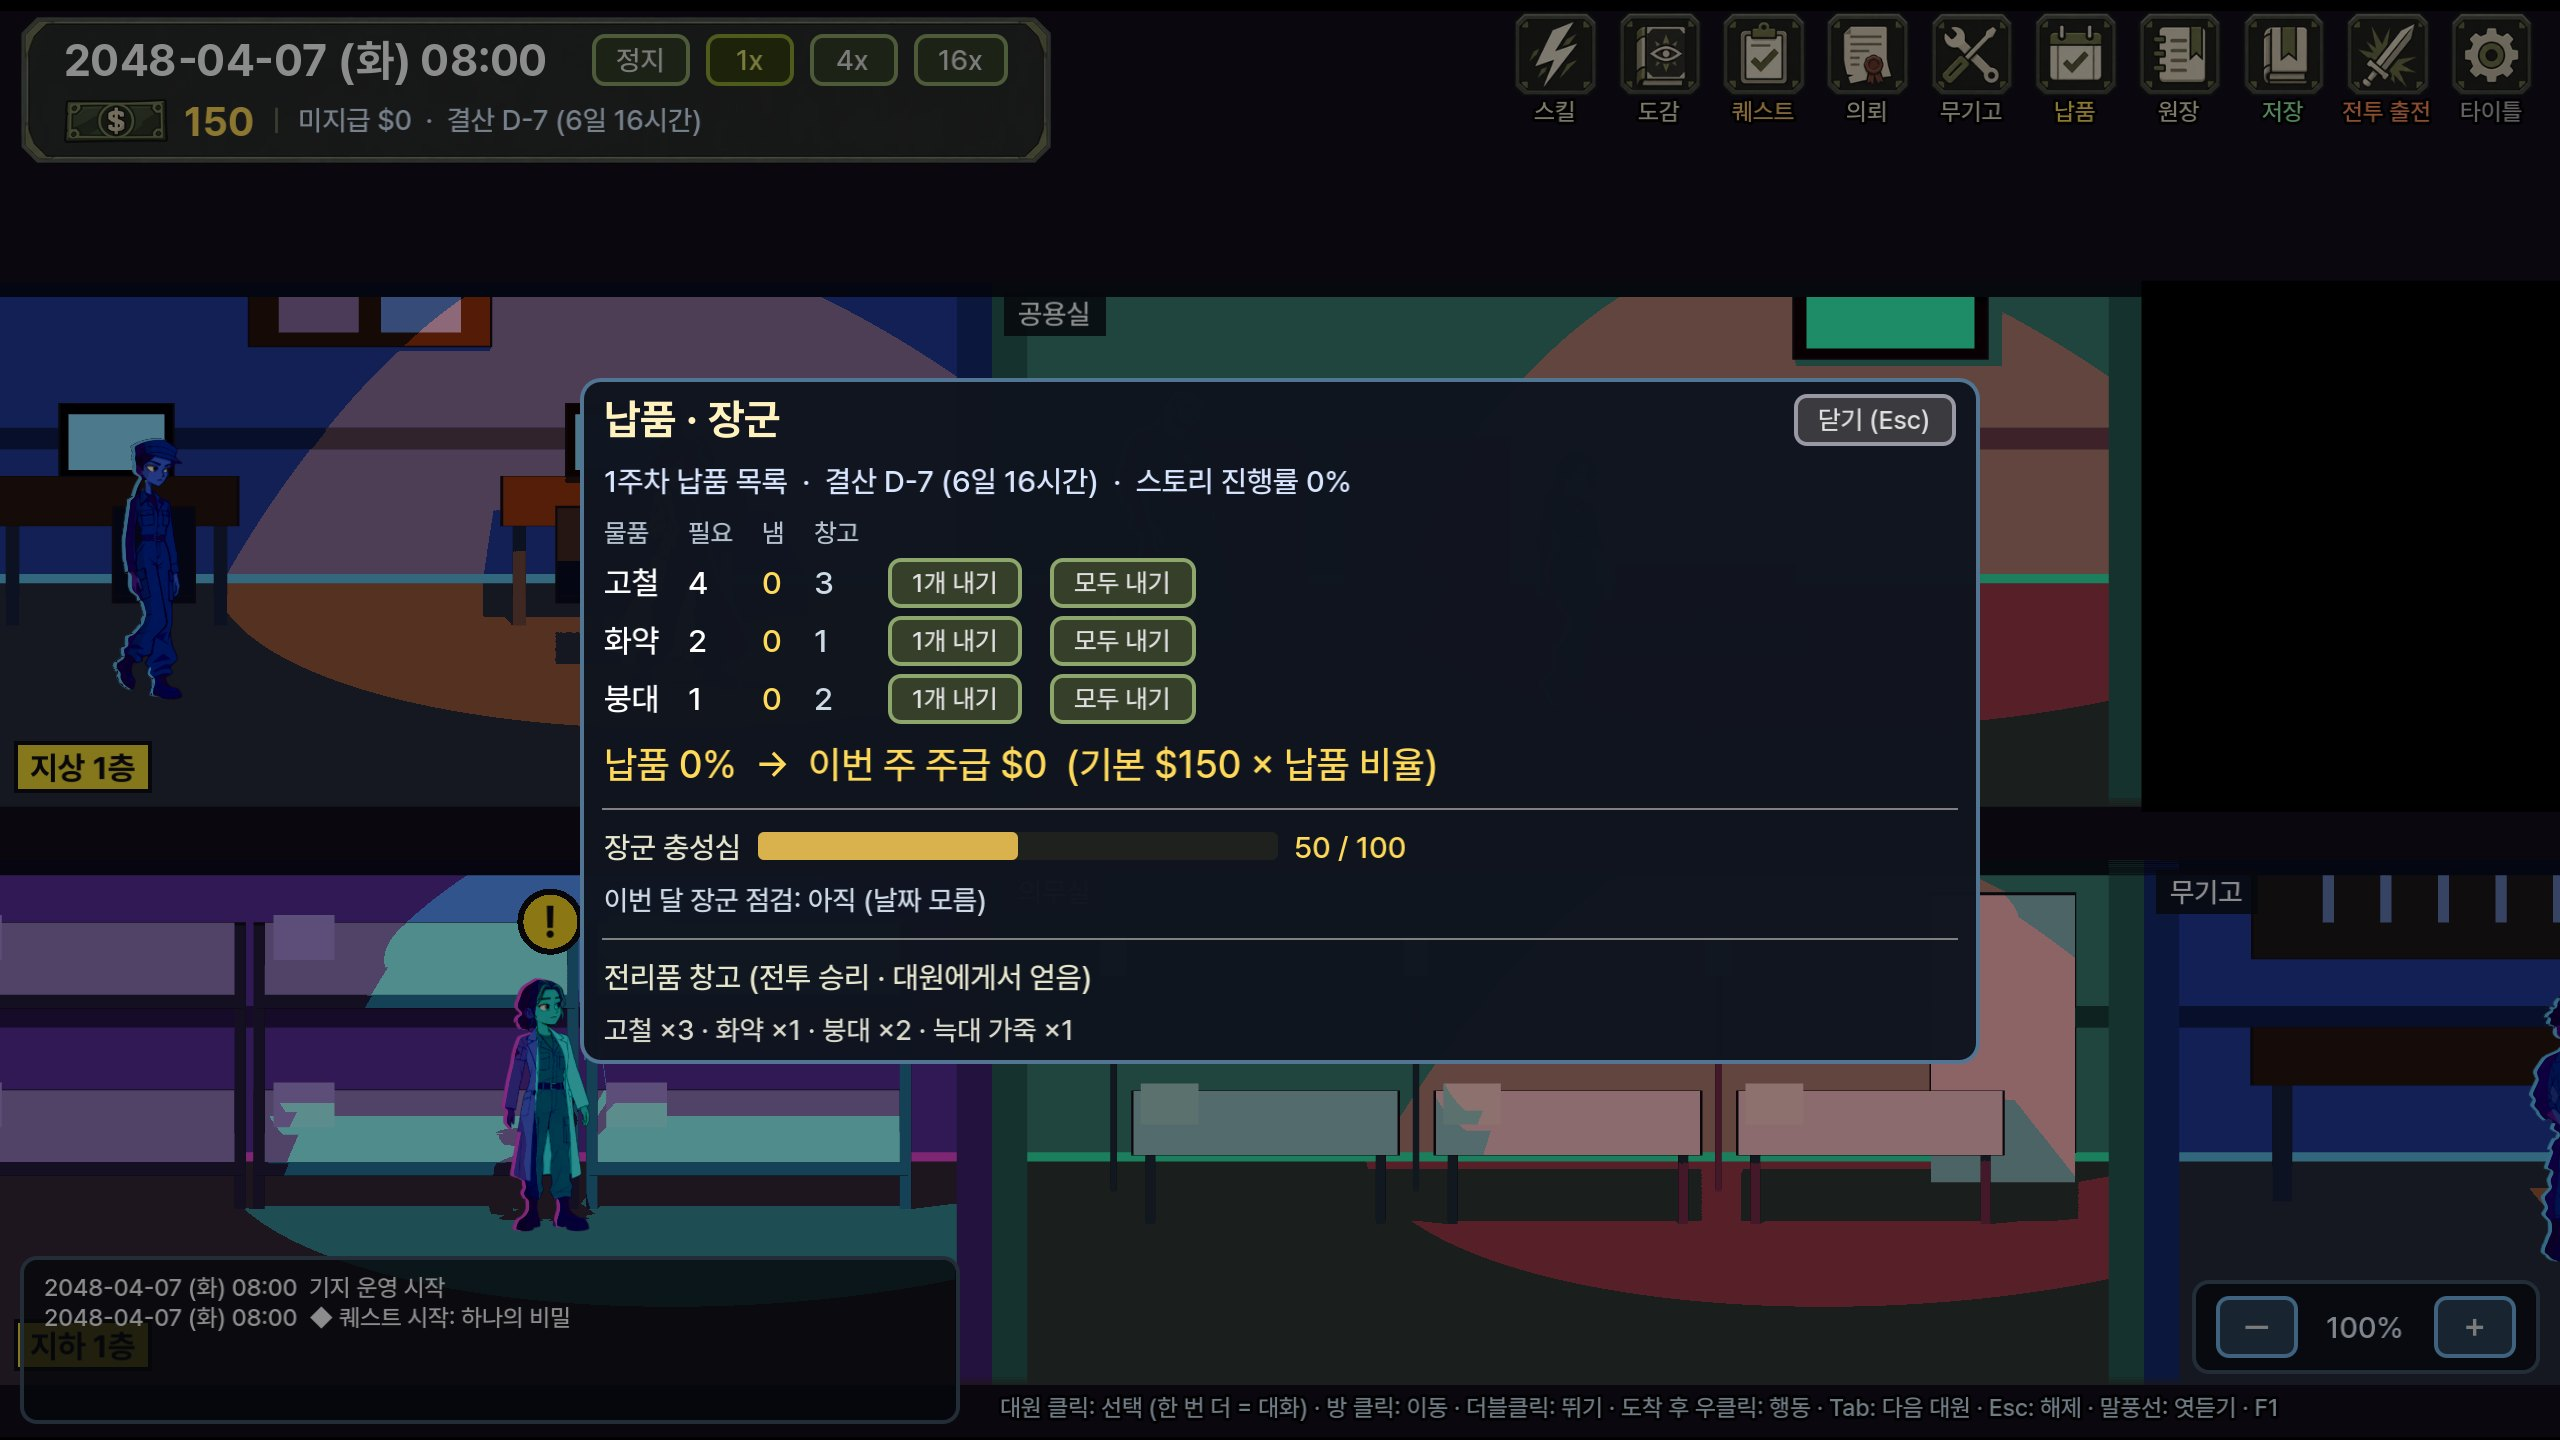
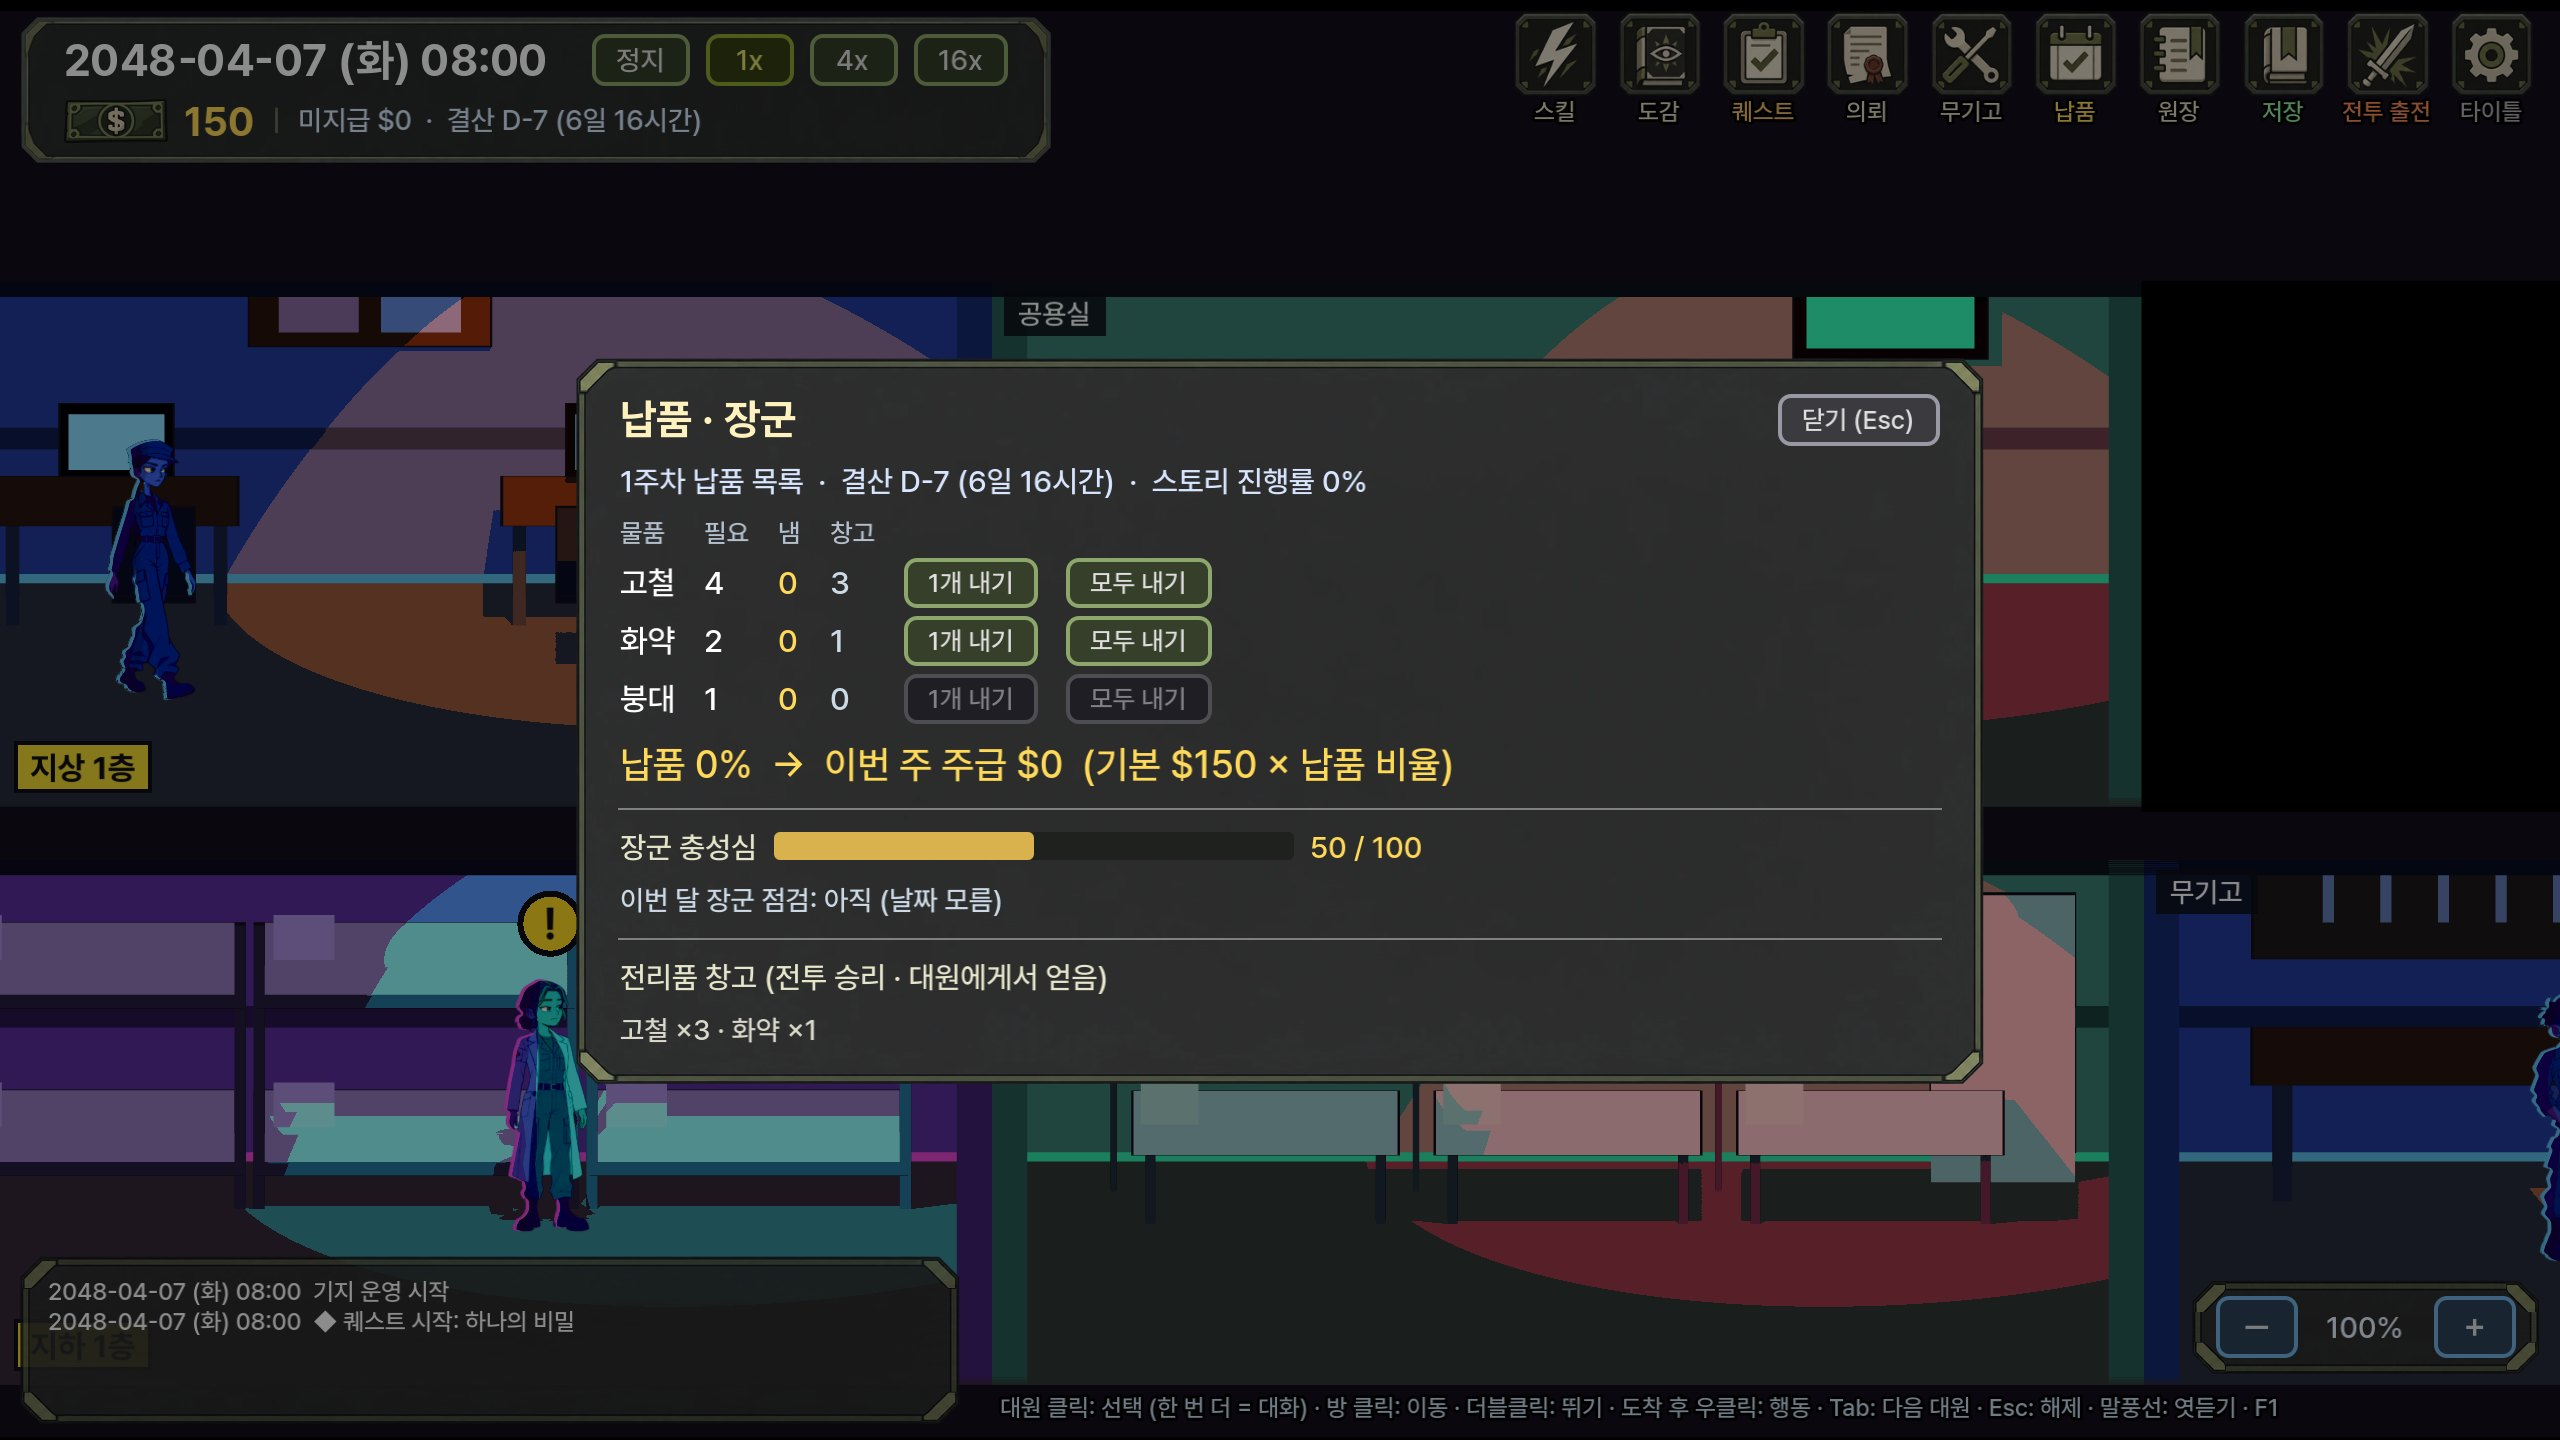
UI 공용 패널 그림 적용 (기지 창 · 카드 · 기록 · 전투 하단 패널 · 상태 이상 창)
- assets/ui/panel.png (원본 art_src/ui/panel.webp), UiPanel.apply — 9칸 늘리기(모서리 32px), 2배 그림을 반으로
- 기지: 모든 창 · 대원 카드 · 기록 · 확대 버튼 / 전투: 하단 명령 패널 · 상태 이상 창 · 전투 기록
- README · GDD · 결정 로그, 스크린샷 battle_ui_panel.jpg · outgame_supply.jpg

Claude-Session: https://claude.ai/code/session_014aytw3hj7boqn3SZ5GP5ti

diff --git a/docs/design/PROTOTYPE_GDD_v1_0.md b/docs/design/PROTOTYPE_GDD_v1_0.md
@@ -4,7 +4,7 @@
 
 ## 0. 현재 구현 반영 (변경될 때마다 갱신)
 > 아래는 원 기획 이후 사용자 결정으로 바뀐 내용. 상세 결정 이력은 `00_decision_log_v1_0.md`, 아트 규격은 `../ui_art_spec.md`.
-> 마지막 갱신: 2026-10-30 (청결 요소 제거 · 납품 → 주급 · 장군 점검 = 아이템 요구 · 충성심 · 전리품)
+> 마지막 갱신: 2026-10-30 (UI 공용 패널 그림 — 기지 창 · 카드 · 전투 하단 패널)
 
 - **표현**: 캐릭터 2D **스프라이트 프레임 애니메이션**(**스프라이트 시트** `assets/characters/<id>/<동작>_<칸 수>.png`, 사용자가 제작 — 시트 없는 동작은 기본 그림 한 장. 현재: 하나·니키타·키라·단·이선·앨마 idle(기본 그림 숨쉬기) — 니키타(빨간 머리 의무병 코트)·키라(회색 군복, 최종)·하나(곱슬머리 군복·오른쪽 눈 아래 점, 최종)·앨마(흰 의무 가운)는 새 그림으로 교체되어 예전 걷기·피격·공격 시트는 지움) + 배경 3D(실광원·그림자). Skeleton2D 리그·3D 캐릭터 전환은 제거.
   칠 방식: **전 캐릭터 네온 칠**(선화는 원화 그대로, 면은 원화 밝기대로 조명색으로 덮음 — 어두운 면은 깊은 보라, 밝은 면은 조명색). `character.json` `"style": "classic"` 이면 예전 셀 칠, `"neon_gradient"` 0~1 = 몸 위→아래 색상 그라데이션(기본 끔).
@@ -16,6 +16,7 @@
 - **신 해금 캐릭터 · 기적**: 정체가 신인 캐릭터 — 해금 조건(직접 / 미션 완료(의뢰·전투·연구·퀘스트) / 레벨 / 신앙도 / 친밀도 / n일차, 또는 처음부터 해금)을 채우면 신앙 탭이 '기적'. **기적은 신앙이 아니라 의지로 배움** — 해금될 때 시작 의지(에디터 `시작 의지`), 출전마다 + `will_battle`(기본 5), 신앙도는 기적에 안 씀. 에디터 `기적 (신 해금)`에서 캐릭터·신·조건·시작 의지·기적(필요 의지) 설정. **하나 = 신, 잠김 — 퀘스트 '하나의 비밀' 완료로 해금** ([임시] 정체 테라 · 시작 의지 10). 니키타는 신 아님.
 - **컷씬**: 대화 장면(대원이 좌우에 서서 대사) · 이미지 CG · 배경 · 선택지 · 행동(퀘스트 시작·신 정체 해금·친밀도·현금). 컷씬 끝 → 다음 컷씬, 선택지 → 고른 컷씬으로 **이어짐**. 계기: 새 게임(오프닝) · 퀘스트 시작/단계/완료 · 대원에게 말 걸기 · 대원끼리 대화 엿듣기 · n일차 · 신 정체 해금 · 전투 승리 · 없음(이어지기 전용). 재생 중 시간 멈춤, Esc = 건너뛰기(행동은 적용). `data/cutscenes.json` + `assets/cg/` — **Godot 에디터 `컷씬` 탭**(목록 · 계기 · 컷 카드 · 게임과 같은 미리보기 · 흐름 · 검사 · 테스트 플레이). 본 컷씬 = 퀘스트 단계 '컷씬 보기' · 미션 `cutscene:id`. [임시] 9개 · 그림 4장.
 - **경제 개편 (2026-10-30)**: 청결(오염 · 청소 · 위생 점수) 제거. 주간 결산 = 주급(기본 $150 × 그 주 납품 비율) + 의뢰 수익 + 장군 추가금/차감. 주마다 납품 목록(스토리 진행률 = 완료 퀘스트 비율에 따라). 전리품 = 전투 승리 보상 · 대원 하루 첫 대화 선물 → 창고 → 납품 · 장군 요구. 장군 점검(월 1회) = 아이템 요구(매번 다름) → 준다(결산 +$40 · 충성심 +5) / 안 준다·무응답(결산 −$40 · 충성심 −10). 날짜 바 = 미지급 · 결산 D-day 만. 데이터 = data/supply.xlsx. [임시] 금액 · 확률 · 목록.
+- **UI 공용 패널**: assets/ui/panel.png (사용자 제공) — 기지 창 · 대원 카드 · 기록 · 확대 버튼 · 전투 하단 패널 · 상태 이상 창 · 전투 기록. 버튼 · 카드(스킬 · 퀘스트)는 그대로.
 - **기지 상단 UI**: 날짜 바 그림 + 속도 버튼 · 지폐 그림 + 돈 · 정보 줄 / 오른쪽 아이콘 버튼 9개(스킬 · 도감 · 퀘스트 · 의뢰 · 무기고 · 원장 · 저장 · 전투 출전 · 타이틀, 아래 이름). 대원 메뉴에도 아이콘. 그림 = assets/ui/outgame (사용자 UI 패키지).
 - **스킬 표 (data/skills.xlsx)**: 스킬 트리 · 신 · 신앙 스킬 · 믿는 신 · 신 해금 · 기적 · 스킬 상태 이상 · 상태 정의 · 몬스터 스킬 · 스킬 포즈의 수치 · 이름 · 설명 · 효과를 엑셀에서 고치면 게임(1초 안) · 에디터에 바로 반영. 표가 원본(JSON 위에 덮음), 에디터 저장 = 표도 씀. 추가 · 삭제 · 연결은 에디터.
 - **스토리 흐름 탭**: Godot 에디터 `스토리` 탭 — 퀘스트 · 컷씬 · 신 정체 해금 · 미션 · 계기를 왼쪽(먼저)→오른쪽(나중) 그래프로, 선 위에 이어지는 방식(시작 · n단계 · 완료 때 · 다음 · 선택 · 퀘스트 시작 · 정체 해금). **거기서 바로 편집**: Shift+끌기로 선 긋기(무슨 뜻으로 이을지 고름 — 시작 조건 · 계기 · 다음 · 선택지 · 행동 · 단계 · 해금 조건), 선 클릭+Delete 로 지우기, + 퀘스트 · + 컷씬 · + 계기, 노드 Delete = 그래프에서만 빼기(선만 끊고 데이터는 그 탭에 남음, `꺼내기`로 다시), 노드 끌어 자리 저장(`story_layout.json`), Ctrl+S 로 quests · cutscenes · faith(divine) 저장, Ctrl+Z (다른 탭에 갔다 와도 유지). 단계 · 대사 세부는 그 탭에서. 끊긴 흐름 검사.

diff --git a/docs/design/00_decision_log_v1_0.md b/docs/design/00_decision_log_v1_0.md
@@ -473,6 +473,10 @@
   - 전리품: 전투 승리(스테이지별 · * = 모든 승리, 확률 · 개수) · 대원 하루 첫 대화 선물(대원별 확률 · 최소 친밀도). 장군 아이콘 그림이 없어 점검 창은 검 아이콘 [임시].
   - 데이터: 새 data/supply.xlsx (outgame.xlsx 는 사용자가 고쳤을 수 있어 건드리지 않음 — 그 설정 시트의 weekly_subsidy · initial_cleanliness · dirt_* · clean_minutes · inspect_* 줄은 이제 안 씀). 테스트 [20] [22] 새로.
 
+- **2026-10-30 UI 공용 패널 그림** (사용자 제공 panel)
+  - 적용: 기지 모든 창(_window) · 대원 카드 · 기지 기록 · 확대 버튼 · 전투 하단 명령 패널 · 상태 이상 창 · 전투 기록. 버튼 · 스킬/퀘스트 카드 · 붉은 전투 발생 띠 · 디버그 창은 그대로 (패널 안에 또 같은 패널이면 답답해서).
+  - 9칸 늘리기(모서리 32px 고정), 2배 해상도 그림을 반으로 그려 2560×1440 에서 1:1. 전투 HUD 는 장면 파일(battle_hud.tscn) 스타일 위에 실행 때 덮어씀 → 장면을 고쳐도 패널 그림은 유지.
+
 ## 검증 중 (확정 아님)
 - **배경 3D + 캐릭터 2D 하이브리드** (2026-10-25 적용): 배경은 3D 방을 2D 카메라와 같은 투영으로 렌더, 캐릭터 라이팅은 실제 광원 위치 기준
   (빛 쪽 얼굴·몸을 광원색으로 밝힘 + 빛이 뒤에서 오면 같은 쪽 가장자리 림 + 바닥 그림자). 캐릭터 2D(리그)는 확정 사항 유지. (이전 2D 배경 판은 2026-10-27 제거.)

diff --git a/README.md b/README.md
@@ -304,6 +304,9 @@ git 이 없는 설치(zip)는 같은 설치 명령을 다시 실행하면 최신
 - 대원 우클릭 메뉴에도 아이콘: 대화(편지) · 무기 연구(돋보기) · 정보·장비(책) · 스킬 트리(번개) · 업무·의뢰 지시(문서).
 - 아이콘 20개 = 사용자 UI 패키지에서 잘라 `assets/ui/outgame/icons/<이름>.png` (96×96): skill · sword · faith · levelup · book · codex · search · bookmark · contract · quest · mail · scroll · schedule · calendar_check · ledger · calendar · gear · tools · sliders · gear_wrench. 원본 `art_src/ui/`.
 - UI 그림은 2560×1440 창에서 1:1 이 되게 2배 해상도로 만들고 반으로 줄여 그림 (게임 기준 1280×720).
+- **UI 공용 패널** = `assets/ui/panel.png` (원본 `art_src/ui/panel.webp`, 어두운 판 · 올리브 테두리 · 팔각 모서리): 기지의 모든 창(납품 · 대화 · 원장 · 의뢰 · 도감 등) · 대원 카드 · 기록 · 확대 버튼, 전투 하단 명령 패널 · 상태 이상 창 · 전투 기록. 모서리 · 테두리는 그대로, 가운데만 늘림. 코드 `scripts/ui/ui_panel.gd` (`UiPanel.apply(패널, 안쪽 여백)`) — 새 패널도 이걸로.
+
+![전투 하단 패널 — UI 공용 패널](docs/screenshots/battle_ui_panel.jpg)
 
 ![기지 상단 UI · 대원 메뉴 아이콘](docs/screenshots/outgame_top_ui.jpg)
 
